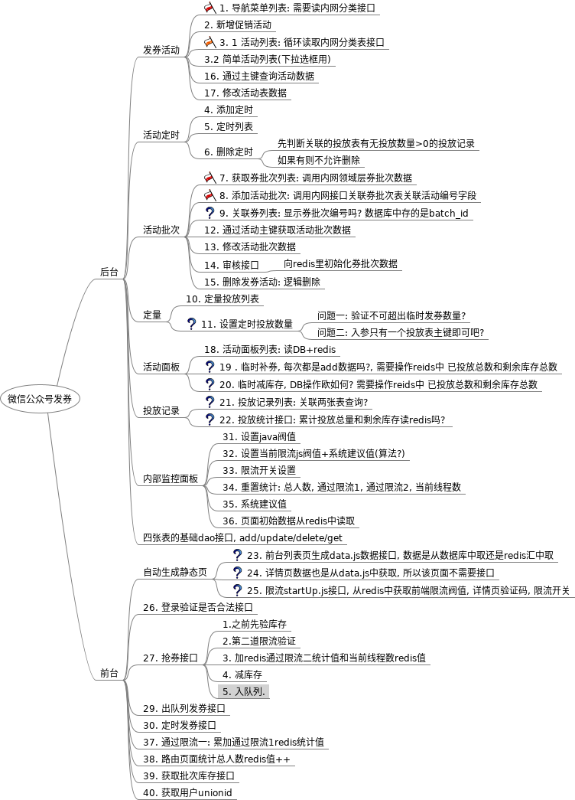
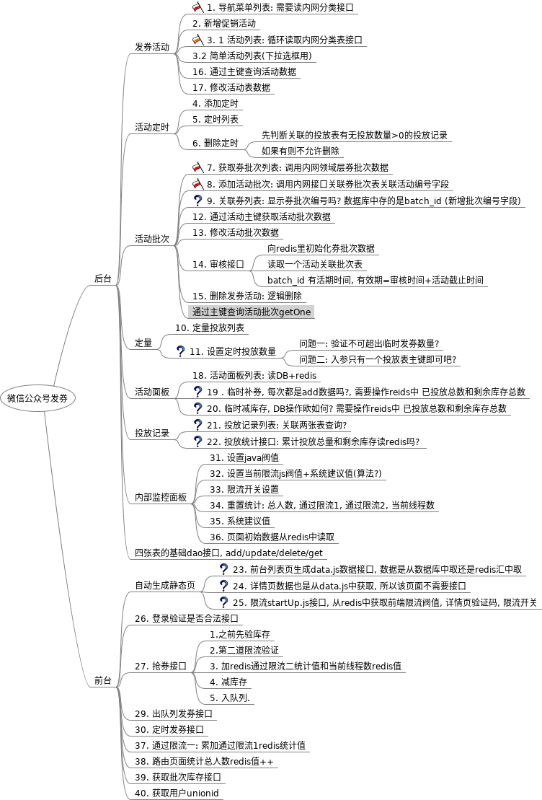
123345

diff --git a/mm/微信公账号发券.mm b/mm/微信公账号发券.mm
@@ -29,15 +29,18 @@
 <node CREATED="1621995372680" ID="ID_1836033938" MODIFIED="1621995425204" TEXT="8. &#x6dfb;&#x52a0;&#x6d3b;&#x52a8;&#x6279;&#x6b21;: &#x8c03;&#x7528;&#x5185;&#x7f51;&#x63a5;&#x53e3;&#x5173;&#x8054;&#x5238;&#x6279;&#x6b21;&#x8868;&#x5173;&#x8054;&#x6d3b;&#x52a8;&#x7f16;&#x53f7;&#x5b57;&#x6bb5;">
 <icon BUILTIN="flag"/>
 </node>
-<node CREATED="1621994844299" ID="ID_1554079308" MODIFIED="1621995589994" TEXT="9. &#x5173;&#x8054;&#x5238;&#x5217;&#x8868;: &#x663e;&#x793a;&#x5238;&#x6279;&#x6b21;&#x7f16;&#x53f7;&#x5417;? &#x6570;&#x636e;&#x5e93;&#x4e2d;&#x5b58;&#x7684;&#x662f;batch_id">
+<node CREATED="1621994844299" ID="ID_1554079308" MODIFIED="1622171624621" TEXT="9. &#x5173;&#x8054;&#x5238;&#x5217;&#x8868;: &#x663e;&#x793a;&#x5238;&#x6279;&#x6b21;&#x7f16;&#x53f7;&#x5417;? &#x6570;&#x636e;&#x5e93;&#x4e2d;&#x5b58;&#x7684;&#x662f;batch_id (&#x65b0;&#x589e;&#x6279;&#x6b21;&#x7f16;&#x53f7;&#x5b57;&#x6bb5;)">
 <icon BUILTIN="help"/>
 </node>
 <node CREATED="1621997272003" ID="ID_1951567911" MODIFIED="1621997297232" TEXT="12. &#x901a;&#x8fc7;&#x6d3b;&#x52a8;&#x4e3b;&#x952e;&#x83b7;&#x53d6;&#x6d3b;&#x52a8;&#x6279;&#x6b21;&#x6570;&#x636e;"/>
 <node CREATED="1621997298723" ID="ID_338579311" MODIFIED="1621997316706" TEXT="13. &#x4fee;&#x6539;&#x6d3b;&#x52a8;&#x6279;&#x6b21;&#x6570;&#x636e;"/>
 <node CREATED="1621998656787" ID="ID_1086698462" MODIFIED="1621998660947" TEXT="14. &#x5ba1;&#x6838;&#x63a5;&#x53e3;">
 <node CREATED="1621998707619" ID="ID_174883533" MODIFIED="1621998718290" TEXT="&#x5411;redis&#x91cc;&#x521d;&#x59cb;&#x5316;&#x5238;&#x6279;&#x6b21;&#x6570;&#x636e;"/>
+<node CREATED="1622170499532" ID="ID_1545976595" MODIFIED="1622170511503" TEXT="&#x8bfb;&#x53d6;&#x4e00;&#x4e2a;&#x6d3b;&#x52a8;&#x5173;&#x8054;&#x6279;&#x6b21;&#x8868;"/>
+<node CREATED="1622170571860" ID="ID_736357308" MODIFIED="1622170655033" TEXT="batch_id &#x6709;&#x6d3b;&#x671f;&#x65f6;&#x95f4;, &#x6709;&#x6548;&#x671f;=&#x5ba1;&#x6838;&#x65f6;&#x95f4;+&#x6d3b;&#x52a8;&#x622a;&#x6b62;&#x65f6;&#x95f4;"/>
 </node>
 <node CREATED="1621998721117" ID="ID_1252420665" MODIFIED="1622000015854" TEXT="15. &#x5220;&#x9664;&#x53d1;&#x5238;&#x6d3b;&#x52a8;: &#x903b;&#x8f91;&#x5220;&#x9664;"/>
+<node CREATED="1622188822095" ID="ID_36622352" MODIFIED="1622188843945" TEXT="&#x901a;&#x8fc7;&#x4e3b;&#x952e;&#x67e5;&#x8be2;&#x6d3b;&#x52a8;&#x6279;&#x6b21;getOne"/>
 </node>
 <node CREATED="1621995599563" ID="ID_1295095758" MODIFIED="1621995603761" TEXT="&#x5b9a;&#x91cf;">
 <node CREATED="1621995605331" ID="ID_1142122439" MODIFIED="1621996158129" TEXT="10. &#x5b9a;&#x91cf;&#x6295;&#x653e;&#x5217;&#x8868;"/>
